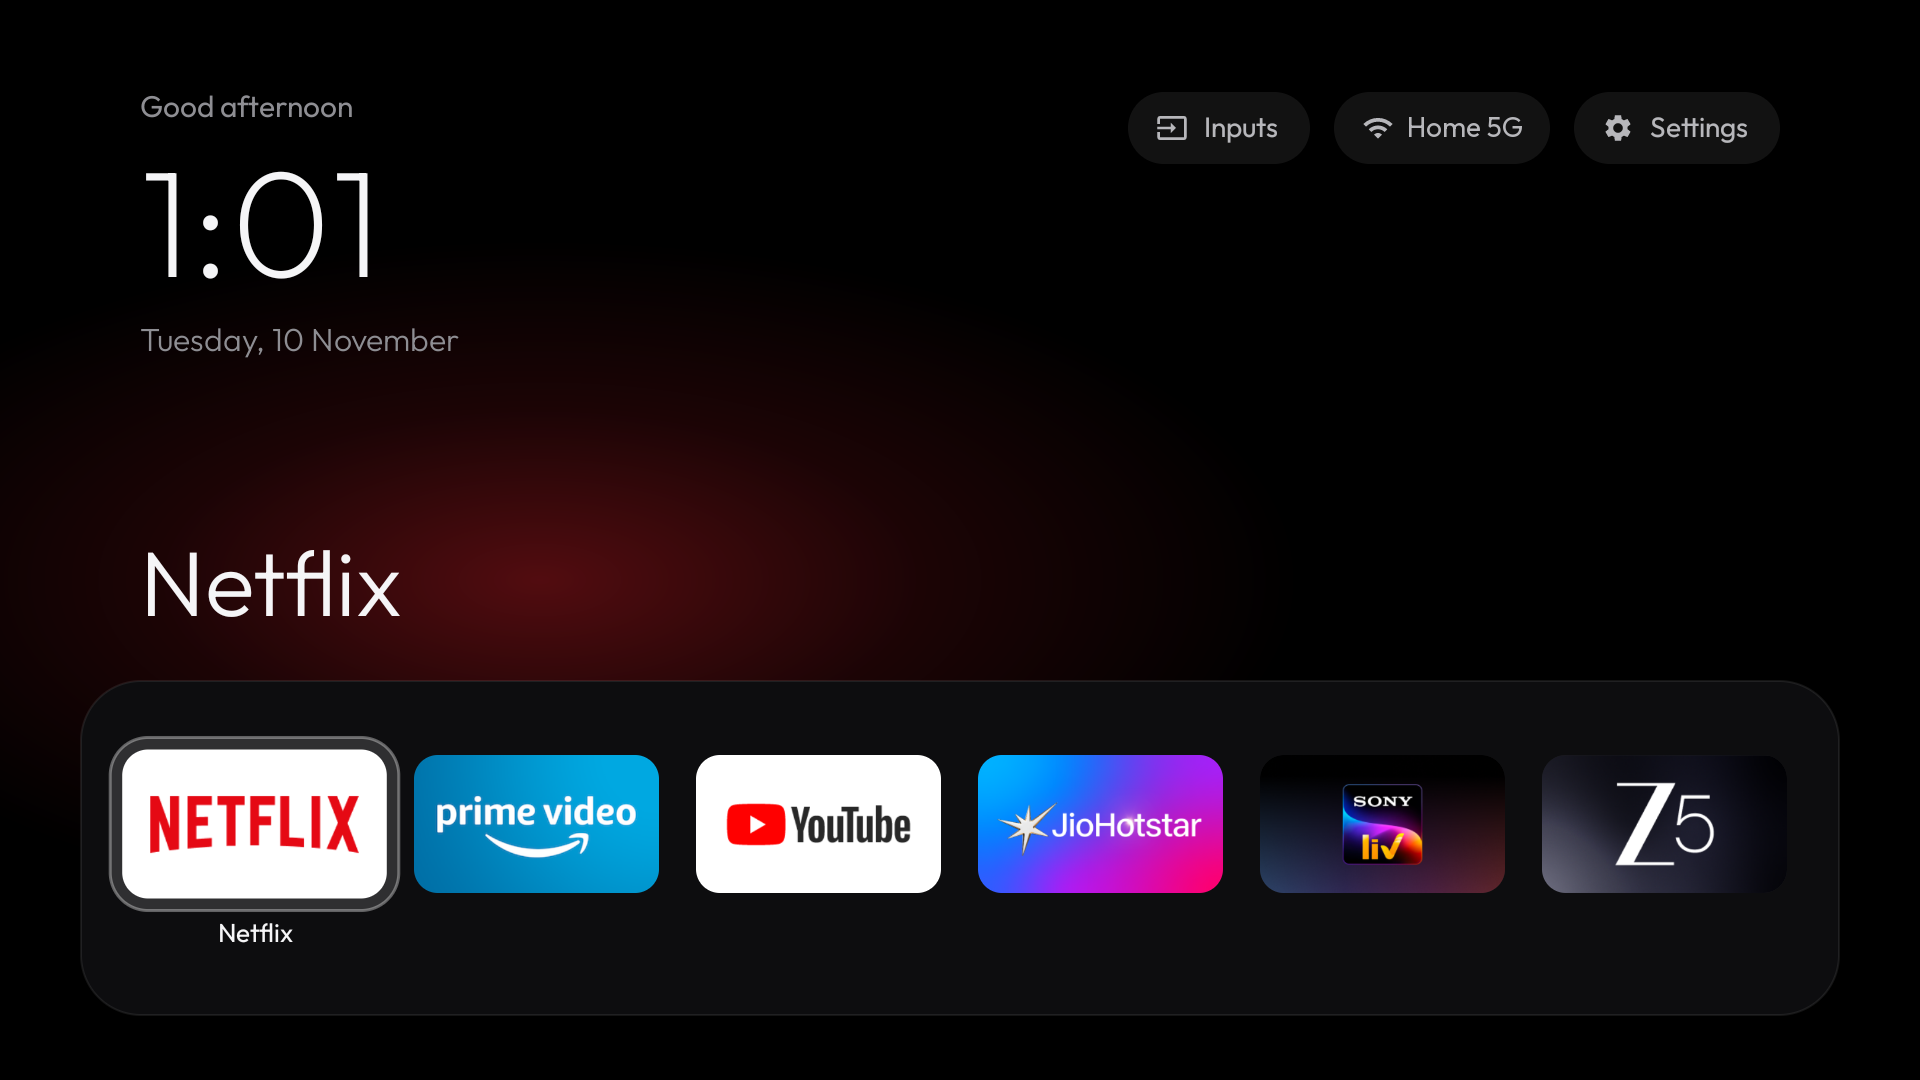
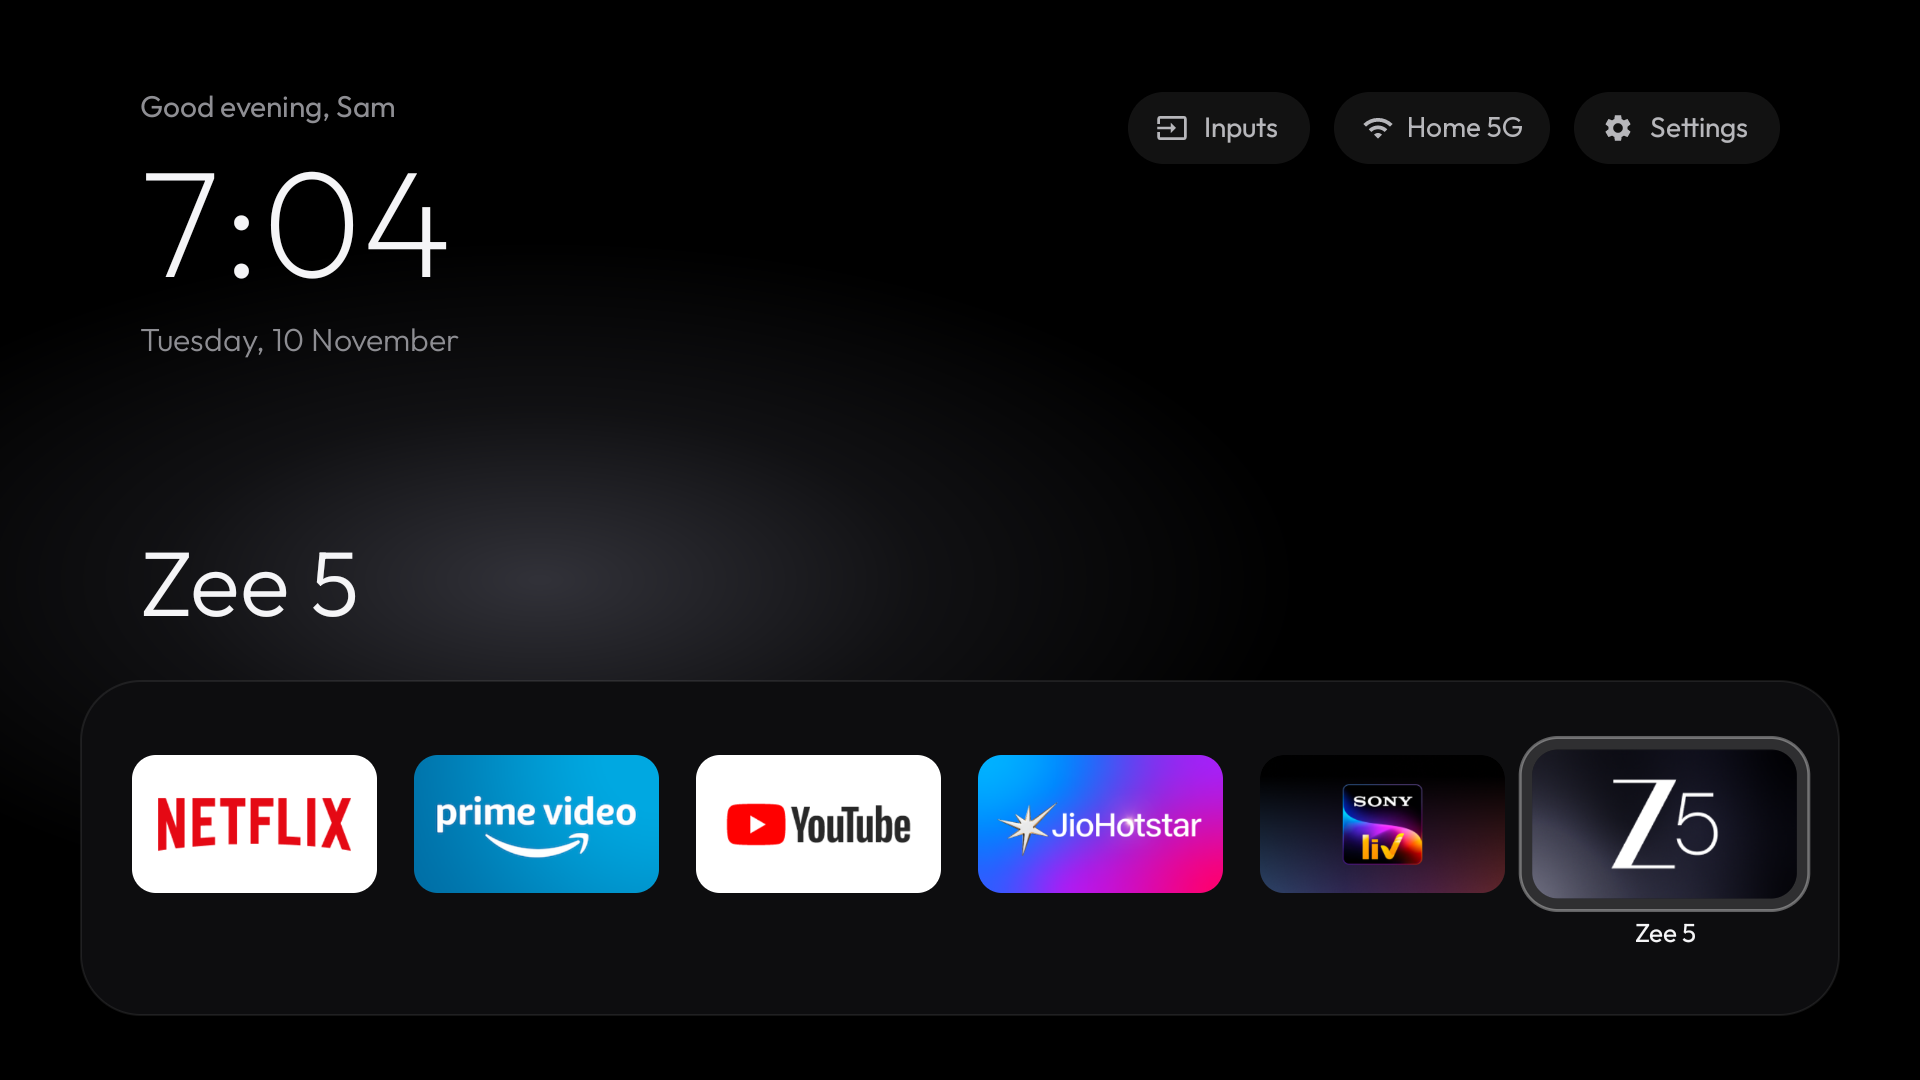
Add screenshots of the home styles and the style picker

diff --git a/README.md b/README.md
@@ -30,6 +30,15 @@ A minimal home screen and a reversible debloat for a Xiaomi Fire TV
 | --- | --- |
 | ![Inputs menu](docs/images/inputs.png) | ![Apps grid](docs/images/apps.png) |
 
+| Gallery ring | Depth clock |
+| --- | --- |
+| ![Gallery ring](docs/images/style-ring.jpg) | ![Depth clock](docs/images/style-depth.jpg) |
+| **Break-out card** | **Glass mosaic** |
+| ![Break-out card](docs/images/style-breakout.jpg) | ![Glass mosaic](docs/images/style-mosaic.jpg) |
+
+The style screenshots use the generated demo artwork (`featured.bat demo`); with
+`featured.bat` the cards show this week's trending titles instead.
+
 ## Quick start
 
 Requirements: Windows with Docker Desktop, and the TV on the same network as the PC.
@@ -129,6 +138,10 @@ powershell -ExecutionPolicy Bypass -File scripts\set-name.ps1 -Default
 ```
 
 ### Home styles and featured titles
+
+![Style picker](docs/images/style-picker.jpg)
+
+Press Menu (three lines) on the home screen to open the style picker shown above.
 
 The featured styles need titles, which are prepared on the PC and copied to the TV; the TV
 itself downloads nothing and does no image processing. `featured.bat`:

diff --git a/SETUP.md b/SETUP.md
@@ -141,7 +141,7 @@ Each `featured.bat` run downloads title data and artwork from TMDB (`api.themovi
 
 Run with `uvx` / `uv run` (cached in `%LOCALAPPDATA%\uv\cache`, not installed globally) when
 the repository was prepared for publication: `git-filter-repo` (rewrote the history to remove
-personal details) and `pillow` 13.0.0 (edited the screenshots). `uv cache clean` removes them.
+personal details) and `pillow` 13.0.0 with `numpy` (edited the screenshots). `uv cache clean` removes them.
 
 ## Licences accepted
 
